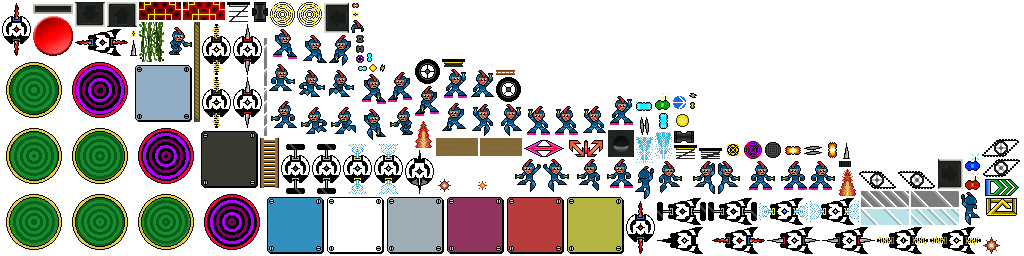
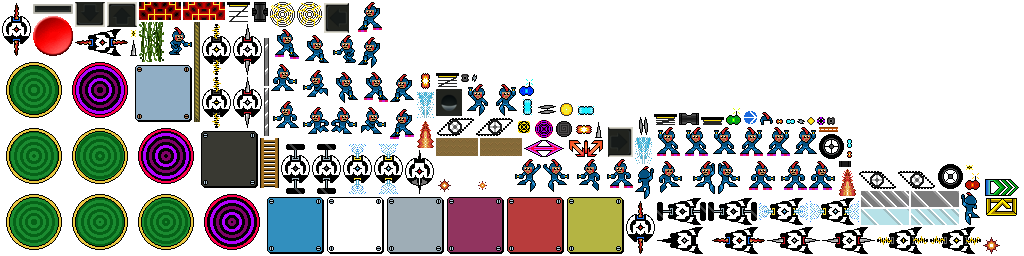
updated level loader for pole and vine assets and added vine to metal level json

Changed region(s): [[0.25, 0.0, 0.8438, 0.625], [0.9062, 0.5312, 1.0, 0.75]]

diff --git a/core/src/com/udacity/gamedev/gigagal/util/LevelLoader.java b/core/src/com/udacity/gamedev/gigagal/util/LevelLoader.java
@@ -17,6 +17,7 @@ import com.udacity.gamedev.gigagal.entities.GushingSwoopa;
 import com.udacity.gamedev.gigagal.entities.GushingZoomba;
 import com.udacity.gamedev.gigagal.entities.Ladder;
 import com.udacity.gamedev.gigagal.entities.Pillar;
+import com.udacity.gamedev.gigagal.entities.Pole;
 import com.udacity.gamedev.gigagal.entities.Rope;
 import com.udacity.gamedev.gigagal.entities.SharpSwoopa;
 import com.udacity.gamedev.gigagal.entities.SharpZoomba;
@@ -31,6 +32,7 @@ import com.udacity.gamedev.gigagal.entities.Flame;
 import com.udacity.gamedev.gigagal.entities.Geiser;
 import com.udacity.gamedev.gigagal.entities.HealthPowerup;
 import com.udacity.gamedev.gigagal.entities.Spike;
+import com.udacity.gamedev.gigagal.entities.Vines;
 import com.udacity.gamedev.gigagal.entities.Wheel;
 import com.udacity.gamedev.gigagal.entities.WhirlingSwoopa;
 import com.udacity.gamedev.gigagal.entities.WhirlingZoomba;
@@ -154,6 +156,14 @@ public final class LevelLoader {
                 final Vector2 ropePosition = imagePosition.add(Constants.ROPE_CENTER);
                 Gdx.app.log(TAG, "Loaded the rope at " + ropePosition);
                 level.getGrounds().add(new Rope(ropePosition));
+            } else if (item.get(Constants.LEVEL_IMAGENAME_KEY).equals(Constants.VINES_SPRITE)) {
+                final Vector2 vinesPosition = imagePosition.add(Constants.VINES_CENTER);
+                Gdx.app.log(TAG, "Loaded the vines at " + vinesPosition);
+                level.getGrounds().add(new Vines(vinesPosition));
+            } else if (item.get(Constants.LEVEL_IMAGENAME_KEY).equals(Constants.POLE_SPRITE_1)) {
+                final Vector2 polePosition = imagePosition.add(Constants.POLE_CENTER);
+                Gdx.app.log(TAG, "Loaded the pole at " + polePosition);
+                level.getGrounds().add(new Pole(polePosition));
             } else if (item.get(Constants.LEVEL_IMAGENAME_KEY).equals(Constants.TREADMILL_1_RIGHT)) {
                 final Vector2 treadmillPosition = imagePosition.add(Constants.TREADMILL_CENTER);
                 Gdx.app.log(TAG, "Loaded the treadmillRight at " + treadmillPosition);

diff --git a/core/src/com/udacity/gamedev/gigagal/util/Constants.java b/core/src/com/udacity/gamedev/gigagal/util/Constants.java
@@ -115,8 +115,8 @@ public final class Constants {
     public static final String LADDER_SPRITE = "ladder";
     public static final int LADDER_EDGE = 8;
 
-    // VINES
-    public static final Vector2 VINES_CENTER = new Vector2(3, 50);
+    // Vines
+    public static final Vector2 VINES_CENTER = new Vector2(12.5f, 20);
     public static final String VINES_SPRITE = "vines";
     
     // Rope    
@@ -124,7 +124,7 @@ public final class Constants {
     public static final String ROPE_SPRITE = "rope";
     
     // Pole
-    public static final Vector2 POLE_CENTER = new Vector2(24, 8);
+    public static final Vector2 POLE_CENTER = new Vector2(2.5f, 24);
     public static final String POLE_SPRITE_1 = "pole-1";
     public static final String POLE_SPRITE_2 = "pole-2";
     public static final float POLE_DURATION = 1;
